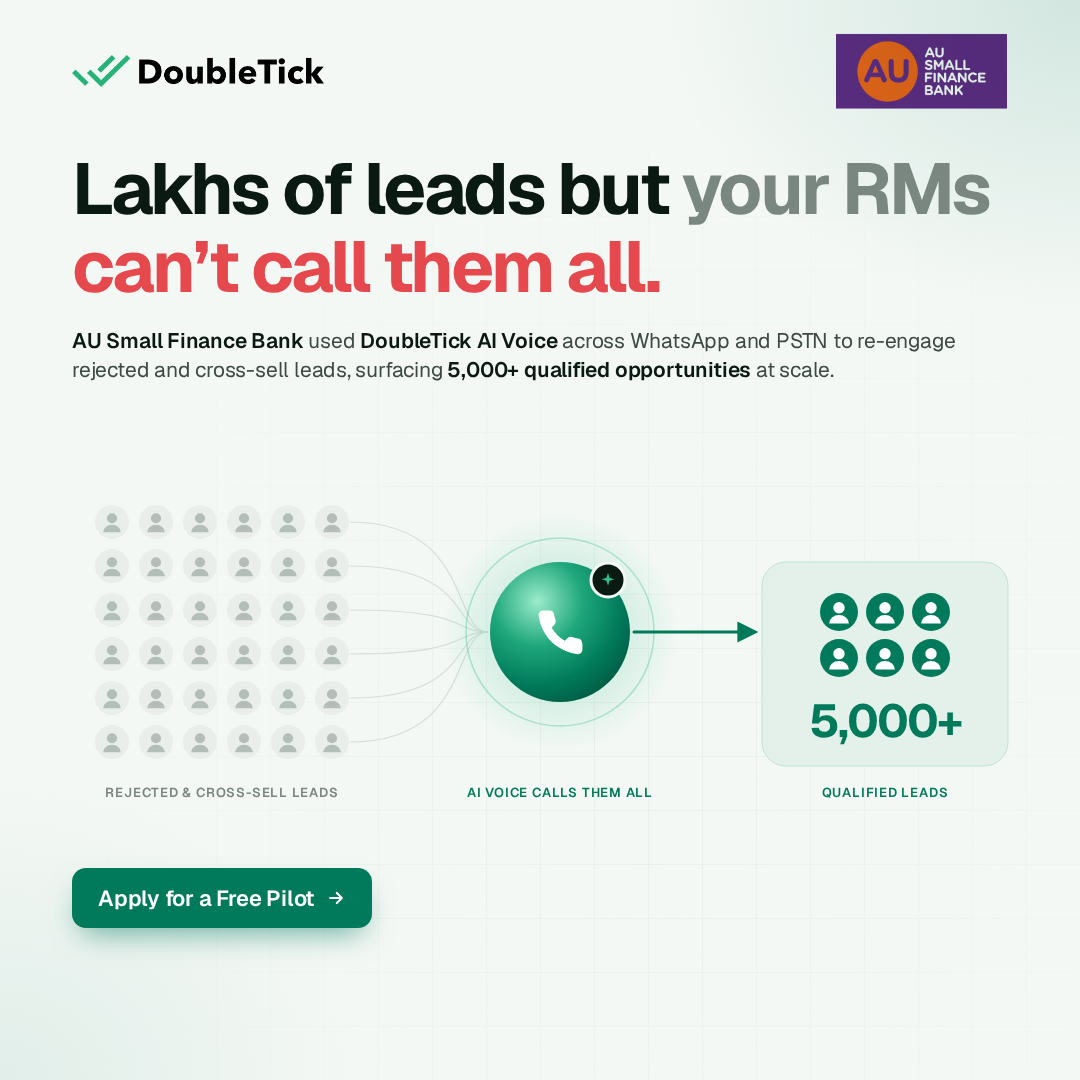
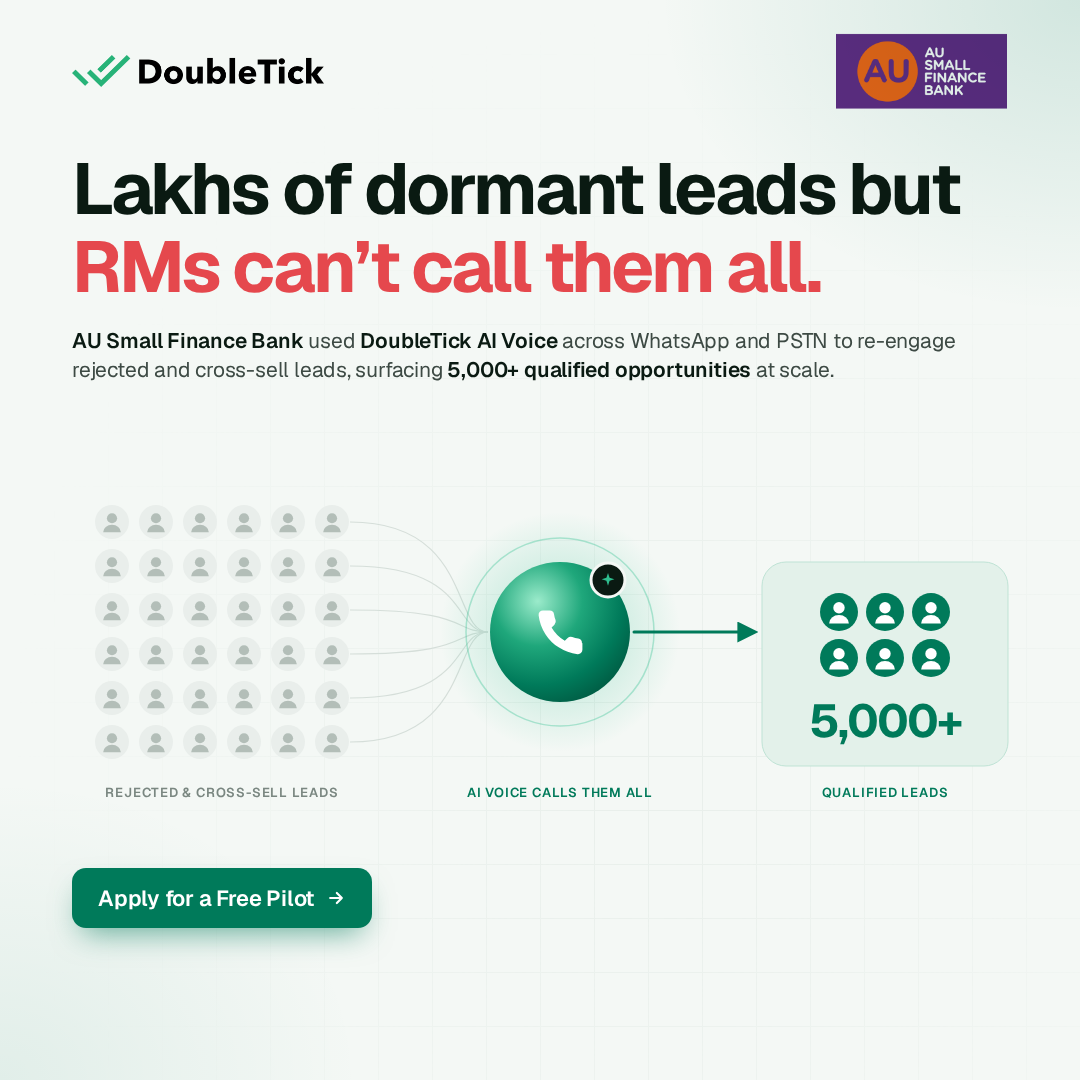
feat: dormant-leads hook on AU ad
Claude-Session: https://claude.ai/code/session_013Hi5o4KgvuLbKTeGkStAKX

Changed region(s): [[0.0611, 0.1528, 0.9167, 0.275]]

diff --git a/ads/doubletick-case-au/index.html b/ads/doubletick-case-au/index.html
@@ -82,7 +82,7 @@
     <img class="client" src="au-bank-logo.png" alt="AU Small Finance Bank" />
   </div>
 
-  <h1><span style="white-space:nowrap">Lakhs of leads but <span class="drop">your RMs</span></span><br/><span class="die">can&rsquo;t call them all.</span></h1>
+  <h1><span style="white-space:nowrap">Lakhs of dormant leads but</span><br/><span class="die">RMs can&rsquo;t call them all.</span></h1>
   <p class="sub"><b>AU Small Finance Bank</b> used <b>DoubleTick AI Voice</b> across WhatsApp and PSTN to re-engage rejected and cross-sell leads, surfacing <b>5,000+ qualified opportunities</b> at scale.</p>
 
   <div class="flow">
